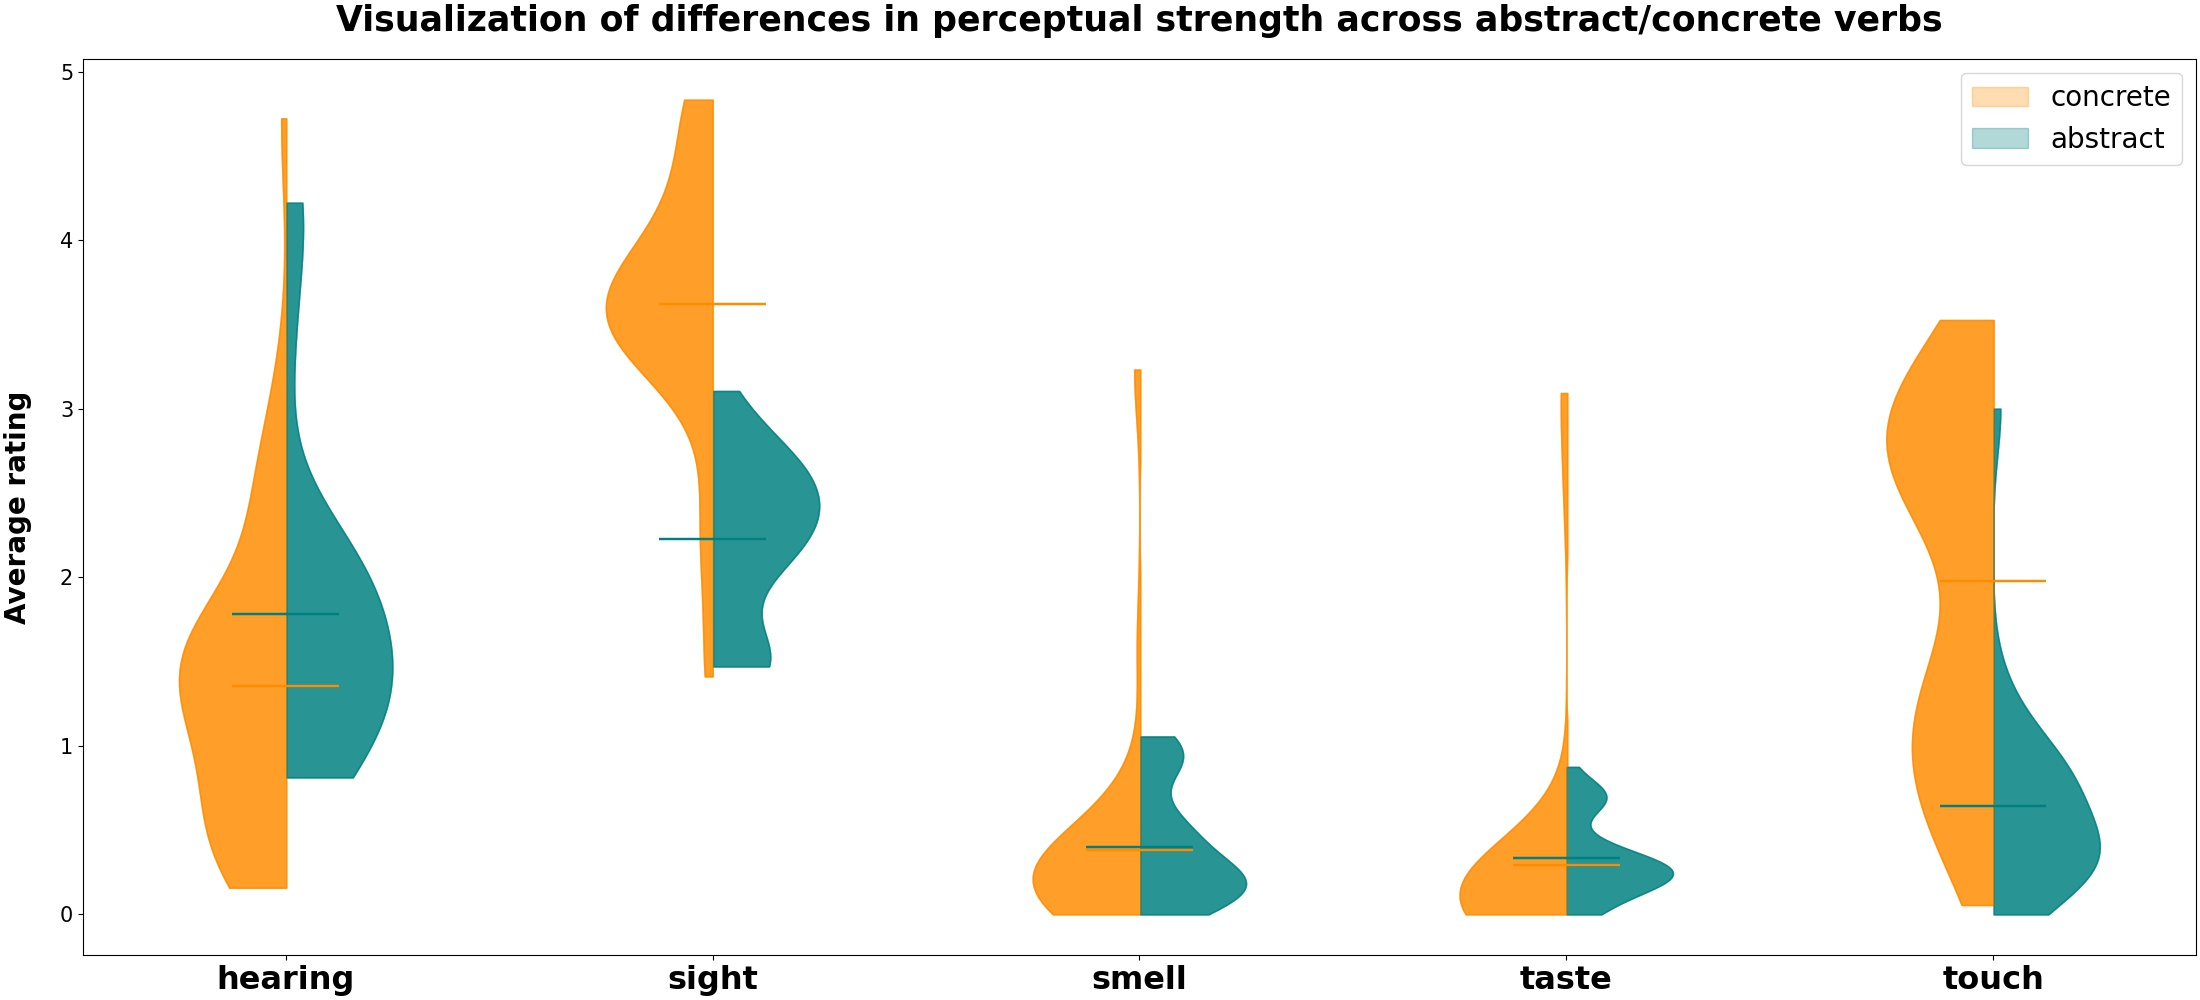
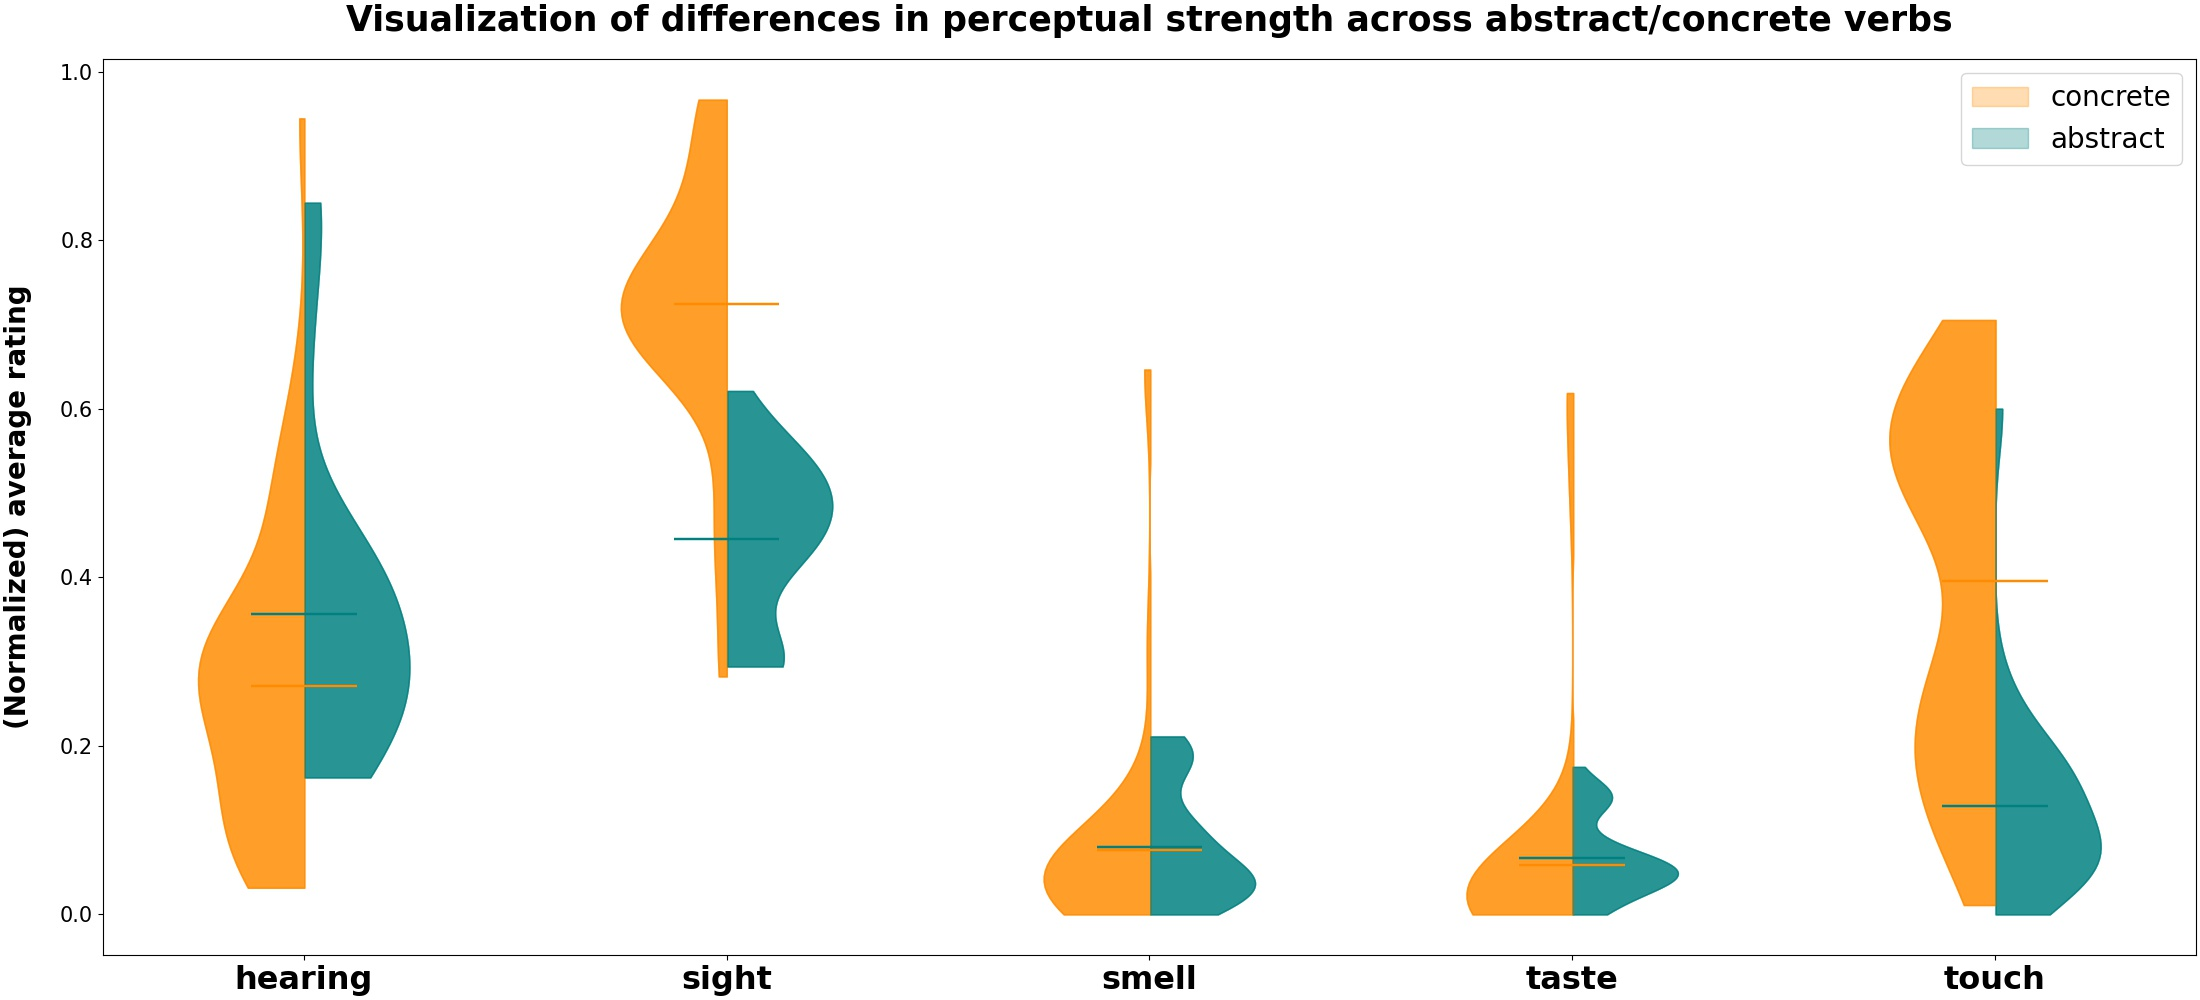
corrected plots

diff --git a/04_validate_list_phrases.py b/04_validate_list_phrases.py
@@ -6,10 +6,11 @@ import scipy
 from matplotlib import pyplot
 from scipy import stats
 
-from utils import read_brysbaert_norms, read_sensorimotor
+from utils import read_brysbaert_norms, read_our_ratings, read_sensorimotor
 
 conc, val, aro, dom = read_brysbaert_norms()
 word_sensorimotor = read_sensorimotor()
+human_data = read_our_ratings()
 
 counter = 0
 nouns = list()
@@ -179,28 +180,6 @@ ax.set_title(
              )
 pyplot.savefig(out_file)
 
-folder = 'data'
-human_data = dict()
-for f in os.listdir(folder):
-    if 'dissertation' in f:
-        with open(os.path.join(folder, f)) as i:
-            lines = [l.strip().split('\t')[11:] for l in i.readlines()]
-            for l in lines:
-                assert len(l) == 800
-            headers = [l.replace(']', '').split(' [') for l in lines[0]]
-            for head_i, head in enumerate(headers):
-                key = ' '.join([head[0].split()[idx] for idx in [0, -1]])
-                val = head[1].lower()
-                if val in ['concreteness', 'imageability', 'familiarity']:
-                    continue
-                if val not in human_data.keys():
-                    human_data[val] = dict()
-                if key not in human_data[val].keys():
-                    human_data[val][key] = list()
-                for l in lines[1:]:
-                    human_data[val][key].append(int(l[head_i]))
-human_data = {k : {k_two : numpy.nanmean(v_two) for k_two, v_two in v.items()} for k, v in human_data.items()}
-
 out_file = os.path.join(plot_folder, 'phrase_senses_distribution.jpg')
 fig, ax = pyplot.subplots(figsize=(22, 10), constrained_layout=True)
 
@@ -255,7 +234,7 @@ for sense, sense_averages in human_data.items():
                         )
     pyplot.yticks(fontsize=15)
     ax.set_ylabel(
-                  'Average rating', 
+                  '(Normalized) average rating', 
                   fontsize=20, 
                   fontweight='bold',
                   labelpad=20
@@ -322,7 +301,7 @@ for sense, sense_averages in human_data.items():
                         )
     pyplot.yticks(fontsize=15)
     ax.set_ylabel(
-                  'Average rating', 
+                  '(Normalized) average rating', 
                   fontsize=20, 
                   fontweight='bold',
                   labelpad=20

diff --git a/utils.py b/utils.py
@@ -1,3 +1,4 @@
+import numpy
 import os
 
 def read_pukwac(file_path):
@@ -132,5 +133,34 @@ def read_sensorimotor():
                 rating = float(line[idx])
                 if rating > 10:
                     rating = float('.{}'.format(str(int(rating))))
+                ### min 0, max 5
+                rating = rating / 5
                 ratings[dest][word] = rating
     return ratings
+
+def read_our_ratings():
+    folder = 'data'
+    human_data = dict()
+    for f in os.listdir(folder):
+        if 'dissertation' in f:
+            with open(os.path.join(folder, f)) as i:
+                lines = [l.strip().split('\t')[11:] for l in i.readlines()]
+                for l in lines:
+                    assert len(l) == 800
+                headers = [l.replace(']', '').split(' [') for l in lines[0]]
+                for head_i, head in enumerate(headers):
+                    key = ' '.join([head[0].split()[idx] for idx in [0, -1]])
+                    val = head[1].lower()
+                    if val in ['concreteness', 'imageability', 'familiarity']:
+                        continue
+                    if val not in human_data.keys():
+                        human_data[val] = dict()
+                    if key not in human_data[val].keys():
+                        human_data[val][key] = list()
+                    for l in lines[1:]:
+                        rating = int(l[head_i])
+                        ### min 1, max 5
+                        rating = (rating - 1) / (5 - 1)
+                        human_data[val][key].append(int(l[head_i]))
+    human_data = {k : {k_two : numpy.nanmean(v_two) for k_two, v_two in v.items()} for k, v in human_data.items()}
+    return human_data
